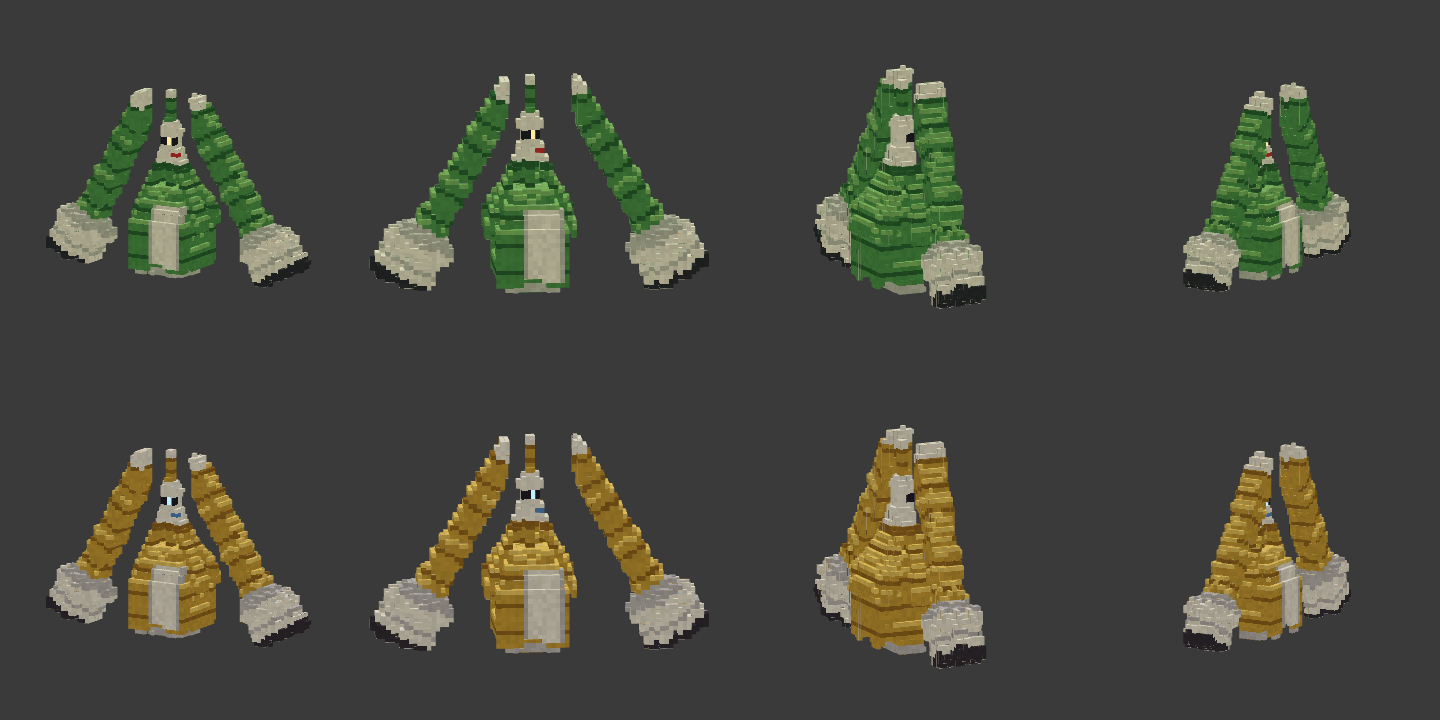
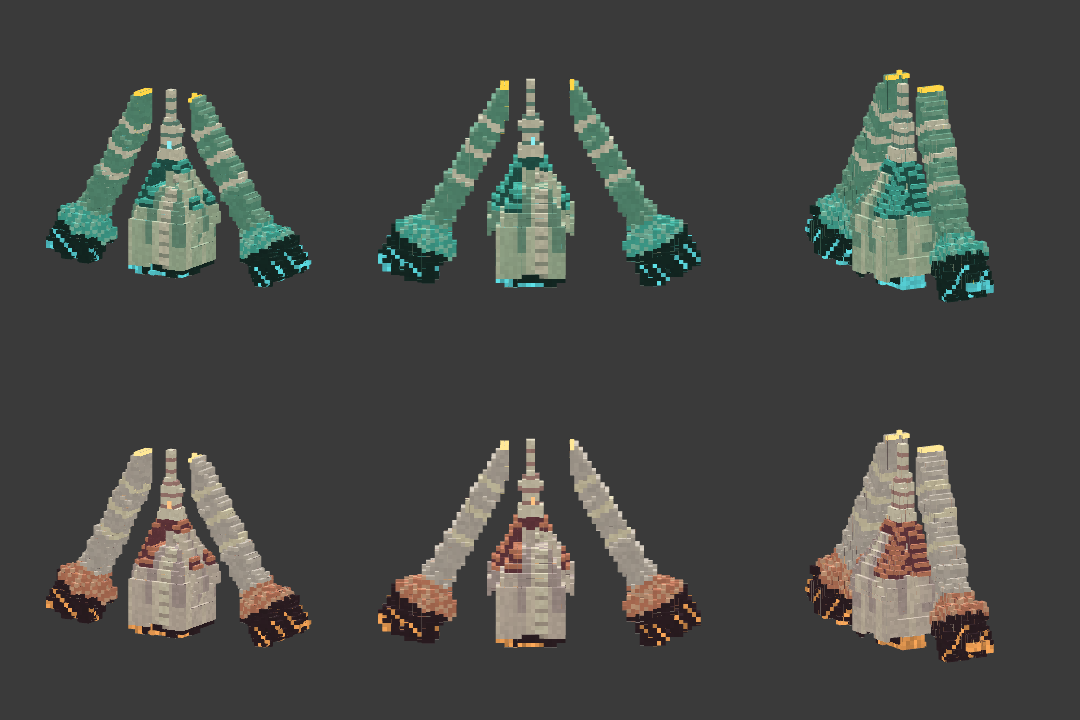
Celesteela: repaint in the colours of the user's reference picture (v0.12.1)
Pale sea-green arm shafts with three white straps and a glowing gold tip panel;
bright cyan frills over dark teal nozzle clusters with glowing cyan rims and seams;
a striped sage-and-mint cloak with a white segmented spine, dark teal plates and
nozzle feet; a white segmented head spire with teal rings and a teal-and-cyan collar.
The glow layer now covers the nozzle rims (flickering), the tips and the eyes.
Shiny: pearl white with rose-gold frills and an orange glow. The mesh, animations
and data are unchanged.

Claude-Session: https://claude.ai/code/session_01HjmLVQnLWGyDGPrJPt9kns

diff --git a/tools/models/celesteela.py b/tools/models/celesteela.py
@@ -4,8 +4,9 @@ Celesteela (#797): a new Pokémon model for CobbleEffort, built from ellecat5112
 
 Cobblemon 1.8.4 has Celesteela's species data (Steel/Flying, Beast Boost, Ultra Sun/Moon stats and learnset, a flier
 that can't walk) but no model, so it's unimplemented. The source mesh is untextured, so this script paints it:
-green bamboo segments with darker nodes, white plates and thruster housings, a white head cone with a dark visor,
-glowing eyes and a red mouth marking, and thruster nozzles with an animated glow (emissive layer).
+in the scheme of the user's reference picture: pale sea-green arm shafts with white straps and a glowing gold tip
+panel, bright cyan frills over dark teal nozzle clusters with glowing cyan rims, a striped sage-and-mint cloak with a
+white segmented spine, dark teal plates, and a white segmented head spire (emissive layer for the glows).
 
   assets/cobbleeffort/bedrock/pokemon/models/0797_celesteela/celesteela.geo.json
   assets/cobbleeffort/textures/pokemon/0797_celesteela/celesteela[_shiny].png + celesteela_glow_<n>.png
@@ -48,19 +49,25 @@ HEAD_FROM = 27                 # the head cone starts at this height
 GLOW_FRAMES = 3
 
 BONES = ["body", "head", "arm_left", "arm_right"]
-# colour roles
-GREEN, GREEN_D, GREEN_L, WHITE, WHITE_S, DARK, RED, NOZZLE, VISOR, EYE = range(10)
+# colour roles (scheme from the user's reference picture: pale sea-green, white straps, cyan frills, dark teal nozzles)
+(SHAFT, SHAFT_L, BAND, FRILL, FRILL_L, NOZZLE, RIM, TIP, CLOAK_A, CLOAK_B, CLOAK_C, SPINE, SPINE_D, PANEL, HEAD,
+ HEAD_RING, EYE) = range(17)
 PALETTES = {
-    "normal": {GREEN: (78, 152, 84), GREEN_D: (46, 104, 58), GREEN_L: (128, 192, 112), WHITE: (234, 238, 230),
-               WHITE_S: (188, 197, 190), DARK: (46, 50, 58), RED: (204, 56, 52), NOZZLE: (92, 44, 24),
-               VISOR: (34, 38, 46), EYE: (250, 228, 150)},
-    # shiny (CobbleEffort's take): brass and gold bamboo on pale silver
-    "shiny": {GREEN: (196, 158, 64), GREEN_D: (148, 108, 40), GREEN_L: (232, 202, 110), WHITE: (232, 232, 240),
-              WHITE_S: (186, 186, 202), DARK: (54, 50, 64), RED: (90, 140, 220), NOZZLE: (40, 70, 110),
-              VISOR: (36, 34, 52), EYE: (170, 230, 255)},
+    "normal": {SHAFT: (108, 180, 170), SHAFT_L: (138, 202, 192), BAND: (238, 244, 242), FRILL: (84, 212, 214),
+               FRILL_L: (150, 236, 234), NOZZLE: (30, 58, 60), RIM: (96, 226, 232), TIP: (236, 196, 52),
+               CLOAK_A: (190, 222, 210), CLOAK_B: (128, 182, 174), CLOAK_C: (218, 238, 228), SPINE: (240, 244, 242),
+               SPINE_D: (176, 190, 188), PANEL: (46, 110, 112), HEAD: (238, 242, 240), HEAD_RING: (120, 170, 170),
+               EYE: (120, 236, 240)},
+    # shiny (CobbleEffort's take): pearl-white shafts with rose-gold frills and warm orange glow
+    "shiny": {SHAFT: (214, 210, 222), SHAFT_L: (232, 228, 238), BAND: (250, 246, 236), FRILL: (226, 150, 132),
+              FRILL_L: (244, 196, 178), NOZZLE: (60, 44, 58), RIM: (255, 168, 90), TIP: (255, 228, 140),
+              CLOAK_A: (230, 220, 228), CLOAK_B: (204, 190, 206), CLOAK_C: (244, 236, 238), SPINE: (252, 250, 246),
+              SPINE_D: (206, 196, 200), PANEL: (128, 76, 96), HEAD: (250, 248, 246), HEAD_RING: (200, 160, 170),
+              EYE: (255, 190, 120)},
 }
-GLOW = {"normal": {"nozzle": (255, 150, 40), "eye": (255, 236, 160)},
-        "shiny": {"nozzle": (110, 200, 255), "eye": (190, 240, 255)}}
+GLOW_ROLES = {RIM: "rim", TIP: "tip", EYE: "eye"}
+GLOW = {"normal": {"rim": (96, 230, 236), "tip": (255, 214, 70), "eye": (140, 240, 244)},
+        "shiny": {"rim": (255, 170, 90), "tip": (255, 232, 150), "eye": (255, 196, 130)}}
 
 
 def parts(solid, lo):
@@ -81,78 +88,83 @@ def parts(solid, lo):
 
 
 def paint_roles(solid, bone, lo):
-    """Colour role and glow kind (0 none, 1 nozzle, 2 eye) of every voxel."""
+    """Colour role of every voxel (glowing roles are listed in GLOW_ROLES)."""
     X, Y, Z = solid.shape
-    role = np.full(solid.shape, GREEN, int)
-    glow = np.zeros(solid.shape, int)
+    role = np.full(solid.shape, CLOAK_A, int)
     i, j, k = np.indices(solid.shape)
-    cx = -lo[0]                                            # grid x of the model's centre line
-    # front surface: the lowest k (the model faces -z) of each (i, j) column
+    cx = -lo[0]                                            # grid x of the centre line
     front = np.full((X, Y), 10 ** 6)
     for a, b, c in zip(*np.nonzero(solid)):
         front[a, b] = min(front[a, b], c)
-    above_open = solid & ~np.pad(solid, ((0, 0), (0, 1), (0, 0)))[:, 1:, :]
-
-    body = bone == 0
-    role[body] = GREEN
-    role[body & (j % 6 == 5)] = GREEN_D                                    # bamboo nodes
-    role[body & above_open & (role == GREEN)] = GREEN_L
     on_front = np.zeros(solid.shape, bool)
     for a, b, c in zip(*np.nonzero(solid)):
         on_front[a, b, c] = c <= front[a, b] + 1
-    panel = body & on_front & (np.abs(i - cx) <= 4) & (j >= 3) & (j <= 18)
-    role[panel] = WHITE
-    role[panel & (np.abs(i - cx) == 4)] = WHITE_S
-    role[body & (j <= 1)] = WHITE_S
+    top_open = solid & ~np.pad(solid, ((0, 0), (0, 1), (0, 0)))[:, 1:, :]
+    body, head = bone == 0, bone == 1
+    centre = np.argwhere(body).mean(0)
 
-    head = bone == 1
-    role[head] = WHITE
-    role[head & (j < HEAD_FROM + 2)] = GREEN_D                             # collar
-    face = head & on_front
-    role[face & ((j == 34) | (j == 35))] = VISOR
-    eyes = face & ((j == 34) | (j == 35)) & (np.abs(np.abs(i - cx) - 2) <= 0)
+    # the cloak: vertical stripes around the body, lighter towards the hem
+    ang = np.arctan2(k - centre[2], i - centre[0])
+    stripe = (np.floor((ang + math.pi) / (2 * math.pi) * 21).astype(int)) % 3
+    role[body] = np.choose(stripe, [CLOAK_A, CLOAK_B, CLOAK_C])[body]
+    hem = body & (j <= 8) & (stripe == 1)
+    role[hem] = CLOAK_A                                     # the lower cloak fades to the pale stripes
+    spine = body & on_front & (np.abs(i - cx) <= 1) & (j >= 3)
+    role[spine] = SPINE
+    role[spine & (j % 3 == 0)] = SPINE_D
+    upper_side = body & (j >= 18) & (np.abs(i - cx) >= 5)
+    role[upper_side] = PANEL                                # dark teal plates by the head
+    role[upper_side & top_open] = FRILL
+    feet = body & (j <= 2)
+    role[feet] = NOZZLE
+    role[feet & ((j == 0) | (np.abs(i - cx) >= 7))] = RIM
+
+    # the head spire: white with teal rings, a teal collar with cyan trim, small glowing eyes
+    role[head] = HEAD
+    role[head & (j % 3 == 0) & (j >= HEAD_FROM + 4)] = HEAD_RING
+    collar = head & (j < HEAD_FROM + 3)
+    role[collar] = PANEL
+    role[collar & top_open] = FRILL
+    eyes = head & on_front & ((j == 33) | (j == 34)) & (np.abs(np.abs(i - cx) - 2) == 0)
     role[eyes] = EYE
-    glow[eyes] = 2
-    role[face & (j == 31) & (np.abs(i - cx) <= 1)] = RED                   # mouth marking
-    role[head & (j >= 40)] = GREEN                                         # the spire
-    role[head & (j >= 40) & (j % 3 == 0)] = GREEN_D
-    role[head & (j >= 46)] = WHITE
 
+    # the arm-rockets, from the nozzles (t = 0) to the tip (t = 1)
     for b in (2, 3):
         arm = bone == b
         pts = np.argwhere(arm).astype(float)
         mean = pts.mean(0)
         _, _, vt = np.linalg.svd(pts - mean, full_matrices=False)
-        axis = vt[0] if vt[0][1] > 0 else -vt[0]                           # from the thruster (low) to the tip (high)
+        axis = vt[0] if vt[0][1] > 0 else -vt[0]
         proj = (pts - mean) @ axis
         t = (proj - proj.min()) / (proj.max() - proj.min())
-        length = proj.max() - proj.min()
         radial = np.linalg.norm((pts - mean) - np.outer(proj, axis), axis=1)
-        for (a, bb, c), tv, r in zip(pts.astype(int), t, radial):
-            node = int(tv * length) % 6 == 5
-            if tv < 0.28:                                                  # thruster housing
-                rr = WHITE_S if 0.22 <= tv < 0.28 or node else WHITE
-                if tv < 0.05:
-                    rr = DARK
-                    if r < 2.2:
-                        rr = NOZZLE
-                        glow[a, bb, c] = 1
-            elif tv > 0.93:
-                rr = WHITE
+        rmax_low = radial[t < 0.05].max() if (t < 0.05).any() else radial.max()
+        tip_top = proj.max()
+        for (a, bb, c), tv, r, pv in zip(pts.astype(int), t, radial, proj):
+            if tv < 0.18:                                   # nozzle cluster
+                rr = NOZZLE
+                if tv < 0.04 and r > rmax_low - 1.6:
+                    rr = RIM
+                elif (a + bb + c) % 7 == 0 and tv < 0.12:
+                    rr = RIM                                # the cyan seams between the nozzles
+            elif tv < 0.30:                                 # the frill collar above the nozzles
+                rr = FRILL_L if (a + 2 * bb + c) % 3 == 0 else FRILL
+            elif any(lo_ <= tv < hi for lo_, hi in ((0.52, 0.555), (0.66, 0.695), (0.80, 0.835))):
+                rr = BAND                                   # white straps
             else:
-                rr = GREEN_D if node else GREEN
+                rr = SHAFT_L if top_open[a, bb, c] else SHAFT
+            if pv > tip_top - 1.2 and top_open[a, bb, c]:
+                rr = TIP                                    # the glowing panel on the tip
             role[a, bb, c] = rr
-        role[arm & above_open & (role == GREEN)] = GREEN_L
     role[~solid] = -1
-    glow[~solid] = 0
-    return role, glow
+    return role
 
 
 def build_model():
     d = np.load(VOXELS)
     solid, lo = d["solid"], d["lo"]
     bone = parts(solid, lo)
-    role, glow = paint_roles(solid, bone, lo)
+    role = paint_roles(solid, bone, lo)
     rng = np.random.default_rng(797)
     shade = 1 + rng.uniform(-0.045, 0.045, solid.shape)                   # a little per-voxel variation
 
@@ -179,7 +191,7 @@ def build_model():
         def body_colour(i, j, k, pal=pal):
             r = role[i, j, k]
             c = pal[r] if r >= 0 else (0, 0, 0)
-            f = shade[i, j, k] if r not in (EYE, VISOR) else 1
+            f = shade[i, j, k] if r not in GLOW_ROLES else 1
             return tuple(int(min(255, v * f)) for v in c) + (255,)
         img = Image.new("RGBA", (tw, th), (0, 0, 0, 0))
         for (b, box), uv in zip(boxes, pos):
@@ -190,16 +202,15 @@ def build_model():
             flick = {}
 
             def glow_colour(i, j, k, variant=variant, f=f, frng=frng, flick=flick):
-                g = glow[i, j, k]
+                g = GLOW_ROLES.get(role[i, j, k])
                 if not g:
                     return (0, 0, 0, 0)
-                if g == 2:
-                    return GLOW[variant]["eye"] + (255,)
+                if g != "rim":
+                    return GLOW[variant][g] + (255,)
                 key = (i, j, k)
-                if key not in flick:
-                    flick[key] = 0.72 + 0.28 * frng.random()
-                c = GLOW[variant]["nozzle"]
-                return tuple(int(v * flick[key]) for v in c) + (255,)
+                if key not in flick:                         # the nozzle rims flicker, the tip and eyes stay steady
+                    flick[key] = 0.7 + 0.3 * frng.random()
+                return tuple(int(v * flick[key]) for v in GLOW[variant]["rim"]) + (255,)
             gimg = Image.new("RGBA", (tw, th), (0, 0, 0, 0))
             for (b, box), uv in zip(boxes, pos):
                 vx.paint_box(gimg, uv, box, glow_colour)
@@ -352,9 +363,10 @@ def data_files():
                 "Moves, stats, typing and ability are the official Ultra Sun/Ultra Moon ones (Heavy Slam at 60). It "
                 "flies and can't walk.",
                 "Commands: /pokespawn celesteela or /pokegive celesteela (add 'shiny' for the shiny)."],
-        "look": "Green bamboo segments, white plates and a white head cone with glowing eyes; its arm-thrusters glow "
-                "and flicker in the dark. It hovers, leans into flight, aims its arms to fire Flash Cannon and drops "
-                "onto foes with Heavy Slam. Shiny: brass-gold bamboo on silver, with blue flames.",
+        "look": "Pale sea-green arm-rockets with white straps, cyan frills and glowing nozzle rims and tips, a "
+                "striped sage cloak and a white segmented spire. It hovers, leans into flight, aims its arms to fire "
+                "Flash Cannon and drops onto foes with Heavy Slam. Shiny: pearl white with rose-gold frills and an "
+                "orange glow.",
     })
 
 

diff --git a/README.md b/README.md
@@ -398,9 +398,10 @@ walking, battle stance, sleep, cry, physical/special/status moves and fainting.
 
 * **Game-accurate**: Steel/Flying, Beast Boost, Ultra Sun/Ultra Moon base stats and learnset (Heavy Slam at 60),
   catch rate 45; it flies and can't walk. Sized at about 3.5 blocks (Cobblemon shrinks its giants).
-* **Look**: the source model is untextured, so it's painted here: green bamboo segments with darker nodes, white
-  plates and thruster housings, a white head cone with a dark visor, glowing eyes and a red mouth marking, and
-  thruster nozzles that glow and flicker in the dark. Shiny: brass-gold bamboo on silver, with blue flames.
+* **Look**: the source model is untextured, so it's painted here in the scheme of ellecat5112's reference picture:
+  pale sea-green arm shafts with three white straps and a glowing gold tip panel, bright cyan frills over dark teal
+  nozzle clusters with glowing cyan rims, a striped sage-and-mint cloak with a white segmented spine and dark teal
+  plates, and a white segmented head spire. Shiny: pearl white with rose-gold frills and an orange glow.
 * **Animations**: hovering, leaning into flight, a battle stance with its arm-thrusters aimed, sleep, cry, Heavy Slam
   (rise and drop), Flash Cannon (aim, fire, recoil), status moves and fainting.
 * **Roaming Ultra Beast**: very rarely, anywhere in the overworld at night under the open sky, level 55-60; a full

diff --git a/CREDITS.md b/CREDITS.md
@@ -107,8 +107,8 @@ and contributors.
   texture; the animations, poser and shiny colours are original. Iron Boulder's game data (types, stats, ability,
   moves) is Cobblemon's own; CobbleEffort only marks it implemented and adds its spawns.
 * **Celesteela** (`.../models/0797_celesteela/`, its textures, animations and poser): converted from an untextured 3D
-  model made by ellecat5112 with **Tripo AI** by `tools/models/celesteela.py`. The colours, glow layer, animations,
-  poser and shiny are original. Its game data is Cobblemon's own.
+  model made by ellecat5112 with **Tripo AI** by `tools/models/celesteela.py`. It is painted in the colour scheme of a
+  reference picture ellecat5112 provided (no pixels of it are used); the glow layer, animations, poser and shiny are original. Its game data is Cobblemon's own.
 
 ## Code and data
 
